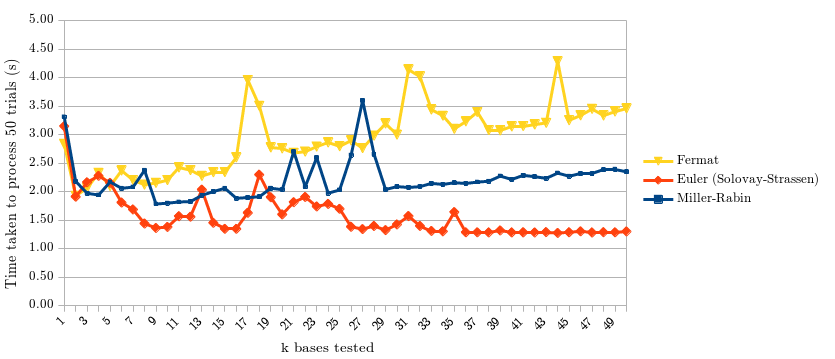
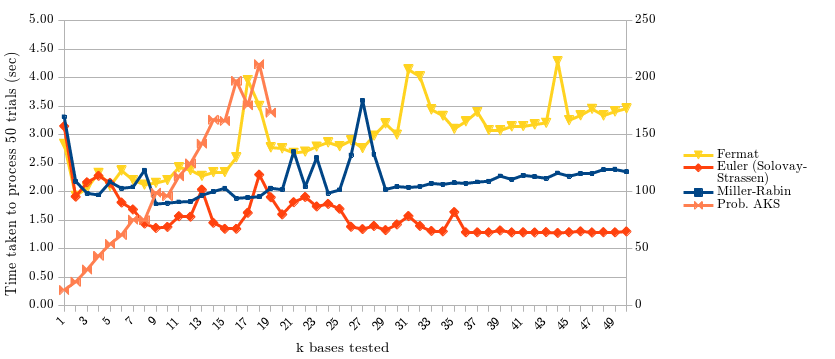
Add new figures + clean up directories

diff --git a/README.md b/README.md
@@ -1,5 +1,5 @@
 # SRS: Primality Testing
 Work on primality testing at [the Summer Research School 🇧🇬](http://www.math.bas.bg/srs/newsite/srs/) with Pressiana Marinova.  
-Made in Sage + LaTeX, July - August 2021.  
+Made in Python + LaTeX, July - August 2021.  
 Released under the [GNU GPLv3 License](./LICENSE).  
 By [Emilie Ma](https://kewbi.sh/).  
